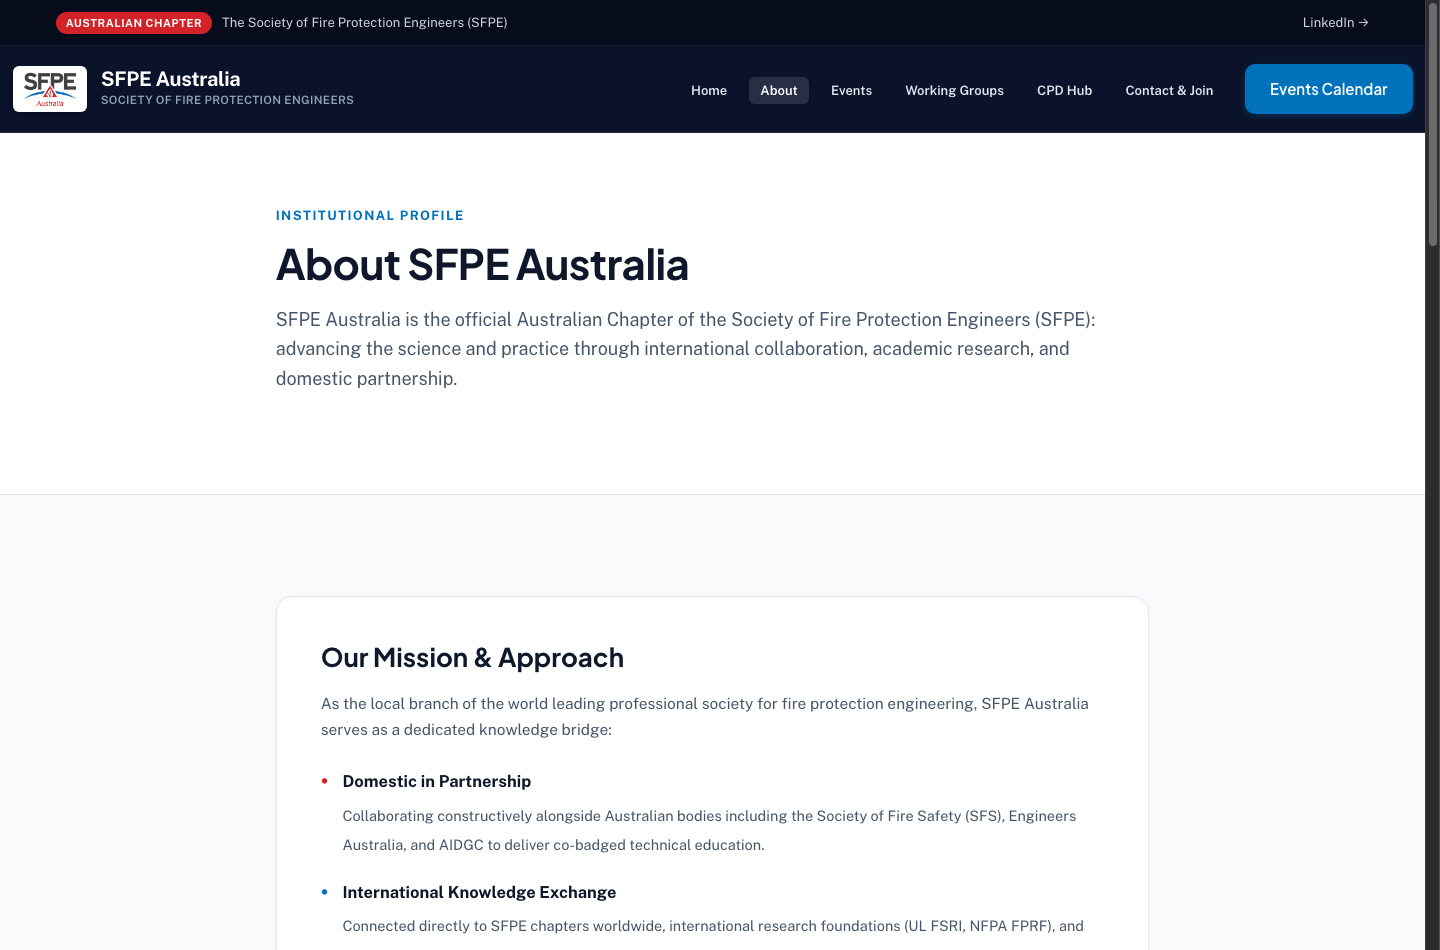
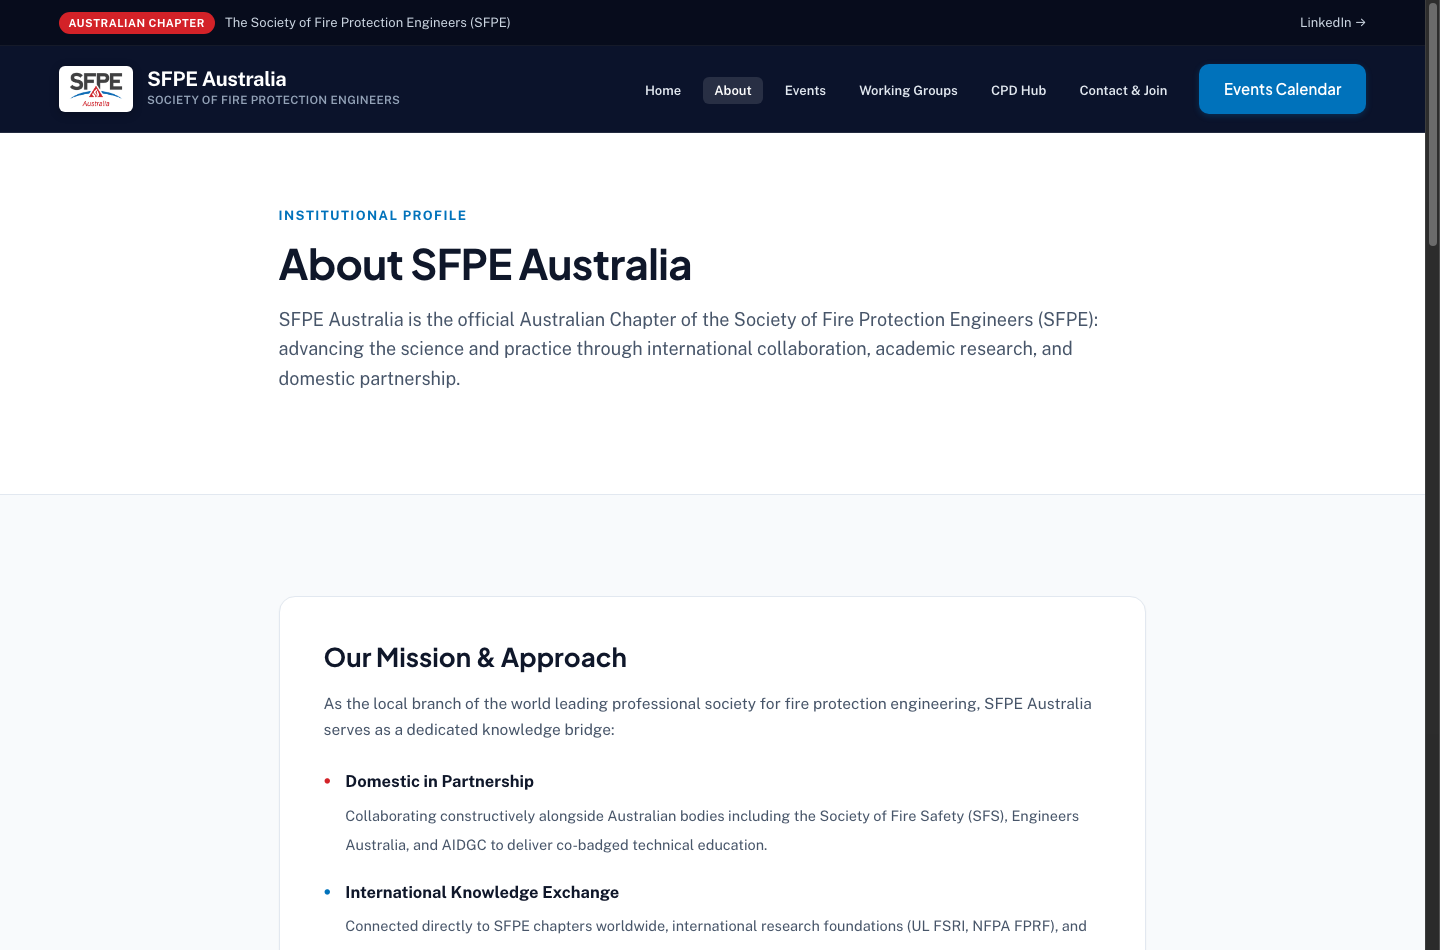
fix(header): restore container edge padding across all viewports (v5.3.1)

diff --git a/scripts/measure-header-gaps.js b/scripts/measure-header-gaps.js
@@ -1,0 +1,214 @@
+#!/usr/bin/env node
+/**
+ * Automated Measurement Verification Script for Header Edge Gaps
+ * Connects via Chrome DevTools Protocol (CDP) to measure exact pixel positions
+ * of the brand logo and the rightmost nav/button/toggle element across viewports.
+ */
+
+const { spawn } = require("child_process");
+const http = require("http");
+const path = require("path");
+const fs = require("fs");
+const os = require("os");
+
+const CHROME_PATH = "/Applications/Google Chrome.app/Contents/MacOS/Google Chrome";
+const CDP_PORT = 9445;
+
+const VIEWPORTS = [
+  { name: "Wide Desktop (1600px)", width: 1600, height: 900, mobile: false },
+  { name: "Standard Desktop (1440px)", width: 1440, height: 900, mobile: false },
+  { name: "Laptop (1366px)", width: 1366, height: 768, mobile: false },
+  { name: "Laptop Small (1280px)", width: 1280, height: 800, mobile: false },
+  { name: "Sub-desktop (1180px)", width: 1180, height: 820, mobile: false },
+  { name: "Breakpoint Boundary (1100px)", width: 1100, height: 820, mobile: false },
+  { name: "Tablet Landscape (1024px)", width: 1024, height: 768, mobile: false },
+  { name: "Tablet Portrait iPad (820px)", width: 820, height: 1180, mobile: false },
+  { name: "Small Tablet (768px)", width: 768, height: 1024, mobile: false },
+  { name: "Phablet (600px)", width: 600, height: 900, mobile: true },
+  { name: "Large Phone (480px)", width: 480, height: 850, mobile: true },
+  { name: "Standard Phone iPhone (375px)", width: 375, height: 812, mobile: true },
+  { name: "Compact Phone (360px)", width: 360, height: 740, mobile: true },
+];
+
+async function main() {
+  console.log("==================================================");
+  console.log(" Measuring Live Header Edge Gaps via CDP          ");
+  console.log(" Target: https://sfpe.org.au                      ");
+  console.log("==================================================");
+
+  const tmpDir = fs.mkdtempSync(path.join(os.tmpdir(), "cdp-measure-"));
+  const chrome = spawn(CHROME_PATH, [
+    "--headless=new",
+    `--remote-debugging-port=${CDP_PORT}`,
+    "--remote-allow-origins=*",
+    "--ignore-certificate-errors",
+    `--user-data-dir=${tmpDir}`,
+    "--disable-gpu",
+    "--no-sandbox"
+  ]);
+
+  try {
+    await new Promise(r => setTimeout(r, 1500));
+    const version = await new Promise((resolve, reject) => {
+      http.get(`http://127.0.0.1:${CDP_PORT}/json/version`, (res) => {
+        let d = "";
+        res.on("data", c => d += c);
+        res.on("end", () => resolve(JSON.parse(d)));
+      }).on("error", reject);
+    });
+
+    const browserWs = new WebSocket(version.webSocketDebuggerUrl);
+    await new Promise(r => browserWs.addEventListener("open", r));
+
+    let bId = 1;
+    function callBrowser(method, params = {}) {
+      return new Promise(resolve => {
+        const id = bId++;
+        const handler = (evt) => {
+          const msg = JSON.parse(evt.data);
+          if (msg.id === id) {
+            browserWs.removeEventListener("message", handler);
+            resolve(msg.result);
+          }
+        };
+        browserWs.addEventListener("message", handler);
+        browserWs.send(JSON.stringify({ id, method, params }));
+      });
+    }
+
+    const target = await callBrowser("Target.createTarget", { url: "about:blank" });
+    const pageWs = new WebSocket(`ws://127.0.0.1:${CDP_PORT}/devtools/page/${target.targetId}`);
+    await new Promise(r => pageWs.addEventListener("open", r));
+
+    let pId = 1;
+    function callPage(method, params = {}) {
+      return new Promise(resolve => {
+        const id = pId++;
+        const handler = (evt) => {
+          const msg = JSON.parse(evt.data);
+          if (msg.id === id) {
+            pageWs.removeEventListener("message", handler);
+            resolve(msg.result);
+          }
+        };
+        pageWs.addEventListener("message", handler);
+        pageWs.send(JSON.stringify({ id, method, params }));
+      });
+    }
+
+    await callPage("Security.enable");
+    await callPage("Security.setIgnoreCertificateErrors", { ignore: true });
+    await callPage("Network.enable");
+    await callPage("Network.setCookie", {
+      name: "__test",
+      value: "7b0d3f9873861de78dc92d218c825e09",
+      domain: "sfpe.org.au",
+      path: "/"
+    });
+    await callPage("Page.enable");
+
+    console.log(
+      "Viewport".padEnd(30) +
+      " | Logo Left Gap".padEnd(16) +
+      " | Right Gap".padEnd(16) +
+      " | Status"
+    );
+    console.log("-".repeat(78));
+
+    let allPassed = true;
+
+    for (const vp of VIEWPORTS) {
+      await callPage("Emulation.setDeviceMetricsOverride", {
+        width: vp.width,
+        height: vp.height,
+        deviceScaleFactor: 1,
+        mobile: vp.mobile
+      });
+
+      await callPage("Page.navigate", { url: "https://sfpe.org.au/?t=" + Date.now() });
+      await new Promise(r => setTimeout(r, 3000));
+
+      // Wait until brand link is present
+      for (let attempt = 0; attempt < 5; attempt++) {
+        const check = await callPage("Runtime.evaluate", {
+          expression: "Boolean(document.querySelector('.brand-link'))",
+          returnByValue: true
+        });
+        if (check?.result?.value) break;
+        await new Promise(r => setTimeout(r, 1000));
+      }
+
+      const res = await callPage("Runtime.evaluate", {
+        expression: `(() => {
+          const logo = document.querySelector(".brand-link");
+          const logoImg = document.querySelector(".brand-logo-img");
+          const mobileToggle = document.querySelector(".mobile-toggle");
+          const eventBtn = document.querySelector(".main-nav .btn");
+          const navContainer = document.querySelector(".nav-container");
+
+          const logoEl = logoImg || logo;
+          const logoRect = logoEl ? logoEl.getBoundingClientRect() : { left: 0 };
+          const logoLeft = Math.round(logoRect.left);
+
+          let rightElem = null;
+          if (mobileToggle && window.getComputedStyle(mobileToggle).display !== "none") {
+            rightElem = mobileToggle;
+          } else if (eventBtn) {
+            rightElem = eventBtn;
+          }
+
+          const rightRect = rightElem ? rightElem.getBoundingClientRect() : null;
+          const rightGap = rightRect ? Math.round(window.innerWidth - rightRect.right) : 0;
+          const containerPaddingLeft = window.getComputedStyle(navContainer).paddingLeft;
+          const containerPaddingRight = window.getComputedStyle(navContainer).paddingRight;
+
+          return {
+            windowWidth: window.innerWidth,
+            logoLeft,
+            rightGap,
+            containerPaddingLeft,
+            containerPaddingRight,
+            isMobileToggleVisible: mobileToggle ? window.getComputedStyle(mobileToggle).display !== "none" : false
+          };
+        })()`,
+        returnByValue: true
+      });
+
+      if (!res || !res.result || !res.result.value) {
+        console.error("Runtime evaluate failed:", JSON.stringify(res));
+        continue;
+      }
+      const data = res.result.value;
+      const minAcceptable = vp.width <= 360 ? 16 : 20;
+      const passed = data.logoLeft >= minAcceptable && data.rightGap >= minAcceptable;
+      if (!passed) allPassed = false;
+
+      const status = passed ? "[PASS]" : "[FAIL]";
+      console.log(
+        vp.name.padEnd(30) +
+        ` | ${data.logoLeft}px`.padEnd(16) +
+        ` | ${data.rightGap}px`.padEnd(16) +
+        ` | ${status}`
+      );
+    }
+
+    console.log("-".repeat(78));
+    if (allPassed) {
+      console.log("All viewports verified: Logo Left Gap >= 20px and Right Gap >= 20px everywhere!");
+    } else {
+      console.log("Some viewports failed minimum margin requirement!");
+    }
+
+    pageWs.close();
+    browserWs.close();
+  } catch (err) {
+    console.error("Measurement error:", err.message);
+  } finally {
+    chrome.kill();
+    setTimeout(() => {
+      try { fs.rmSync(tmpDir, { recursive: true, force: true }); } catch (_) {}
+    }, 1000);
+  }
+}
+
+main();

diff --git a/theme/style.css b/theme/style.css
@@ -4,7 +4,7 @@ Theme URI: https://sfpe.org.au
 Description: Official theme for the Australian Chapter of the Society of Fire Protection Engineers (SFPE).
  * Author: Ninh
  * Author URI: https://sfpe.org.au
- * Version: 5.3.0
+ * Version: 5.3.1
  * Text Domain: sfpe-australia
  */
 
@@ -104,14 +104,14 @@ a:hover {
   width: 100%;
   max-width: var(--container-max);
   margin: 0 auto;
-  padding: 0 clamp(16px, 3vw, 48px);
+  padding: 0 clamp(20px, 3.2vw, 48px);
 }
 
 .container-narrow {
   width: 100%;
   max-width: 960px;
   margin: 0 auto;
-  padding: 0 clamp(16px, 3vw, 48px);
+  padding: 0 clamp(20px, 3.2vw, 48px);
 }
 
 /* Header & Top Bar */
@@ -184,7 +184,8 @@ a:hover {
   display: flex;
   justify-content: space-between;
   align-items: center;
-  padding: clamp(12px, 1.2vw, 18px) 0;
+  padding-top: clamp(12px, 1.2vw, 18px);
+  padding-bottom: clamp(12px, 1.2vw, 18px);
   position: relative;
   width: 100%;
 }
@@ -1527,7 +1528,21 @@ a:hover {
 }
 
 /* Responsive Media Queries */
-@media (max-width: 1080px) {
+@media (max-width: 1240px) {
+  .nav-links {
+    gap: 6px;
+  }
+  .nav-link {
+    font-size: 13.5px;
+    padding: 6px 8px;
+  }
+  .main-nav .btn {
+    padding: 10px 18px;
+    font-size: 14px;
+  }
+}
+
+@media (max-width: 1100px) {
   .hero-grid {
     grid-template-columns: 1fr;
     gap: 44px;
@@ -1703,7 +1718,8 @@ a:hover {
   }
   .top-bar-content {
     justify-content: center;
-    padding: 4px 0;
+    padding-top: 4px;
+    padding-bottom: 4px;
   }
   .top-bar-tagline {
     justify-content: center;
@@ -1788,7 +1804,7 @@ a:hover {
 
 @media (max-width: 360px) {
   .container, .container-narrow {
-    padding: 0 12px;
+    padding: 0 16px;
   }
   .stat-grid {
     gap: 8px;

diff --git a/scripts/take-screenshots.js b/scripts/take-screenshots.js
@@ -47,14 +47,22 @@ async function main() {
   ]);
 
   try {
-    await new Promise(r => setTimeout(r, 1500));
-    const version = await new Promise((resolve, reject) => {
-      http.get(`http://127.0.0.1:${CDP_PORT}/json/version`, (res) => {
-        let d = "";
-        res.on("data", c => d += c);
-        res.on("end", () => resolve(JSON.parse(d)));
-      }).on("error", reject);
-    });
+    let version = null;
+    for (let i = 0; i < 15; i++) {
+      try {
+        version = await new Promise((resolve, reject) => {
+          http.get(`http://127.0.0.1:${CDP_PORT}/json/version`, (res) => {
+            let d = "";
+            res.on("data", c => d += c);
+            res.on("end", () => resolve(JSON.parse(d)));
+          }).on("error", reject);
+        });
+        if (version) break;
+      } catch (e) {
+        await new Promise(r => setTimeout(r, 500));
+      }
+    }
+    if (!version) throw new Error("Could not connect to Chrome CDP port");
 
     const browserWs = new WebSocket(version.webSocketDebuggerUrl);
     await new Promise(r => browserWs.addEventListener("open", r));

diff --git a/README.md b/README.md
@@ -1,7 +1,7 @@
 # SFPE Australia - Official Chapter Platform
 
 [![Status: Active](https://img.shields.io/badge/Status-Active-success.svg)](#)
-[![Theme: v5.3.0](https://img.shields.io/badge/Theme-v5.3.0-0072BB.svg)](#)
+[![Theme: v5.3.1](https://img.shields.io/badge/Theme-v5.3.1-0072BB.svg)](#)
 [![Website: Live](https://img.shields.io/badge/Website-sfpe.org.au-0B132B.svg)](https://sfpe.org.au/)
 
 Official repository for **SFPE Australia**, the Australian Chapter of **The Society of Fire Protection Engineers (SFPE)**.
@@ -40,7 +40,7 @@ SFPE Australia bridges domestic fire safety engineering (under Australia's perfo
 
 ## Technology Stack
 
-- **Platform**: WordPress (Custom Theme: `sfpe-theme` v5.3.0)
+- **Platform**: WordPress (Custom Theme: `sfpe-theme` v5.3.1)
 - **Styling**: Vanilla CSS3 with fluid typography (`clamp()`), CSS Custom Properties, and responsive grid layouts (1400px maximum container width).
 - **Typography Stack**:
   - Headings: `Plus Jakarta Sans`
@@ -58,7 +58,7 @@ SFPE/
 ├── package.json            # NPM scripts for deployment, audit, and verification
 ├── .gitignore              # Version control ignore list
 ├── theme/                  # Standalone WordPress theme source files
-│   ├── style.css           # Responsive styles with fluid typography (v5.3.0)
+│   ├── style.css           # Responsive styles with fluid typography (v5.3.1)
 │   ├── functions.php       # Post types, enqueue scripts, custom meta
 │   ├── header.php          # Header, brand mark, and mobile navigation
 │   ├── footer.php          # Global footer and directory links
